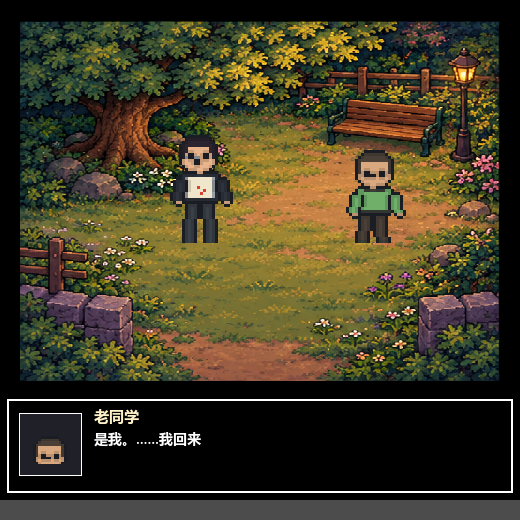
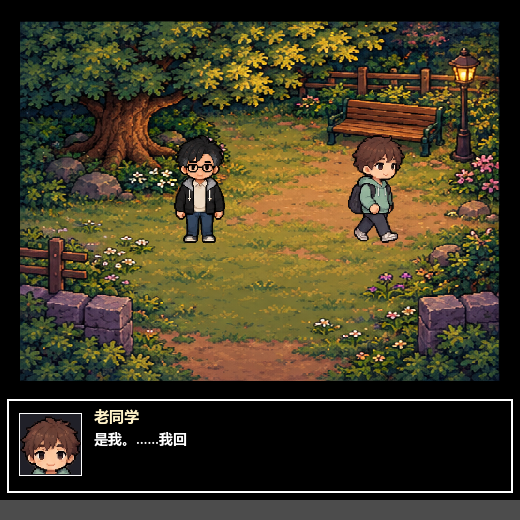
fix: render cutscene characters with the latest pixel_cast atlas
- CutsceneStage uses PixelCast.draw_actor/portrait (assets/portraits_v2, 4 frames per character) instead of the legacy assets/chars frame path
- beat action mapping: walk -> walk cycle, wave/raise -> raised-hand speaking frame, idle/sit -> idle
- animation_link_smoke now validates cast.json/regions/rooms against every cutscene cast
- docs and preview updated for the latest SL character technology

diff --git a/docs/story-cutscenes.md b/docs/story-cutscenes.md
@@ -15,29 +15,32 @@
 给事件加一层 **Undertale 式过场**：不再是「文字卡 + 按钮 + 三镜头小剧场」，而是
 
 - 房间图集背景（`PixelCast.room`，160×120 逻辑画布）；
-- `assets/chars` 的 24×36 逐帧立绘：`idle / walk / wave / raise / sit`，`idle` 支持 **10 种表情**（normal / happy / sad / angry / surprise / scared / determined / shy / hurt / blink）；
+- **SL 库最新 `pixel_cast` 角色图集**：7 个阶段（婴儿/幼年/学龄/少年/成年/中年/老年）+ 6 个 NPC，每个角色 4 帧（静止 / 两帧走 / 说话抬手）；
 - 角色可以按 `from` / `walk_time` 从场外走进来，走到 `x/y` 后自动切回 `idle`；
-- 底部黑框对话框：说话人名字、立绘表情槽、逐字打字 + 合成「滴滴」音；
+- `action` 语义映射到最新 4 帧素材：`walk` → 走路循环，`wave` / `raise` → 说话抬手帧，`idle` / `sit` → 静止；
+- 底部黑框对话框：说话人名字、立绘槽、逐字打字 + 合成「滴滴」音；
 - 对白结束后的**对话框内选项**，红色心形光标上下移动、回车/点击确认；
 - 关系不够的选项会灰色显示并带「需要和…更亲近」提示，无法选中。
 
+> 角色已从旧的 `assets/chars` 分件/逐帧路径切到 GitHub 最新提交的 `pixel_cast` 图集（`assets/portraits_v2` + `data/cast.json`）。旧 `frames.json` 的 10 表情帧保留在仓库里作为素材储备，但当前过场不再使用。
+
 ## 剧情 × 动画：beat 里的动作字段
 
-`data/story_cutscenes.json` 的对白是剧情，`data/frames.json` 的帧表是动画。两者通过 beat 字段接起来：
+`data/story_cutscenes.json` 的对白是剧情，`scripts/pixel_cast.gd` 的 4 帧角色图集是动画。两者通过 beat 字段接起来：
 
 | 字段 | 写在哪 | 作用 |
 | --- | --- | --- |
 | `action` | `beat` 或 `cast[]` | `idle / walk / wave / raise / sit`；写给 `target` 角色，保持到下一次显式切换 |
 | `target` | `beat` | 执行动作的角色，默认等于 `face` |
 | `face` | `beat` | 对话框立绘是谁（`lead` 或 NPC 角色） |
-| `expr` | `beat` | 立绘表情，10 种；`neutral`/`shock` 会自动映射到 `normal`/`surprise` |
-| `from` | `cast[]` | 入场起点 `[x, y]`；有此字段时角色边走边播 `walk` |
+| `expr` | `beat` | 语义提示（normal / happy / sad / angry / surprise / scared / determined / shy / hurt / blink）；最新素材只有静止/抬手两种立绘，非 normal 会优先用抬手帧 |
+| `from` | `cast[]` | 入场起点 `[x, y]`；有此字段时角色边走边播走路帧 |
 | `walk_time` | `cast[]` | 入场时长，默认 1.0 秒 |
 | `cast[].action` / `cast[].face` | `cast[]` | 该角色的默认动作与表情 |
 
-渲染时按 `frames.json` 的 `fps` 播放对应动作帧；帧表是稀疏的（例如 `idle_2` 只有 blink），取不到精确帧会自动回退到同表情第 0 帧或 normal 帧，不会出现空图。
+渲染时由 `PixelCast.frame_index()` 在 4 帧里换帧：走路 `0→1→0→2`，说话抬手第 3 帧，静止第 0 帧。最新素材没有 `wave`/`raise`/`sit` 专用帧，所以 `wave`/`raise` 复用抬手帧，`sit` 退回静止；这些字段保留语义，等后续补专用素材时不需要改剧情。
 
-例子：V03 里老同学从画面右侧走进来，说完“是我。……我回来了”时挥手，下一句再收回 idle。
+例子：V03 里老同学从画面右侧走进来，说完“是我。……我回来了”时挥手（抬手帧），下一句再收回 idle。
 
 ```json
 {"role": "friend", "x": 118, "y": 74, "from": [152, 74], "walk_time": 1.1, "action": "idle"}
@@ -154,17 +157,18 @@
 - `bg`：`home / classroom / hospital / office / park / grave / bedroom`。
 - `cast[].role`：`lead` 或 `boss / friend / mate / parent / partner / teacher`；`x/y` 是 160×120 逻辑坐标里的脚底位置。
 - `cast[]` 可选 `from: [x, y]` 与 `walk_time`，角色会从场外走进 `x/y`；可选默认 `action` / `face`。
-- `beats[].face`：对话框立绘是谁；`lead` 按年龄取阶段，`expr` 支持 10 种表情；NPC 目前只有 `normal`。
-- `beats[].action` + `target`：让某个角色做 `idle / walk / wave / raise / sit`，动作保持到下一次显式切换。
+- `beats[].face`：对话框立绘是谁；`lead` 按年龄取阶段，`expr` 是语义提示（最新素材只有静止/抬手两种立绘）。
+- `beats[].action` + `target`：让某个角色做 `idle / walk / wave / raise / sit`，动作保持到下一次显式切换；具体映射见上表。
 - **选项不写在这里**：选项沿用事件自己的 `choices`，`main.gd` 会按 `showIf` 过滤、按 `requireRelations/requireTags` 标灰锁定，选择后仍走 `gc.choose` 结算。
 
 ## 素材与角色拼装
 
-- 逐帧数据来自 [`data/frames.json`](../data/frames.json)：每个角色 5 种动作，`idle` 支持 10 表情，其余动作只有 `normal`。
-- 帧图是 `assets/chars/{lead|npc}_{角色}_{动作}_{帧}_{表情}.png`，24×36 同画布；`fps` 也写在 `frames.json`。
-- 帧表是稀疏的（如 `idle_2` 只有 blink），`SpriteKit.action_frame()` 会逐级回退到同表情第 0 帧或 normal 帧。
-- 对话框立绘直接裁 `idle` 帧的头部（上 15px），因此 10 种表情在立绘和场上都一致。
-- 旧的分件合成 `SpriteKit.compose()` 仍保留，作为没有帧数据时的兜底。
+- 角色使用 GitHub 最新提交的 [`pixel_cast.gd`](../scripts/pixel_cast.gd) + [`assets/portraits_v2`](../assets/portraits_v2) 图集；`data/cast.json` 记录 7 个阶段 + 6 个 NPC，每人 4 帧。
+- `assets/cast/*.png` 是同一批帧的独立导出，方便直接查看；`regions.json` 记录每帧在 atlas 里的区域。
+- 姿态只有 4 帧：静止、两种迈步、说话抬手。`pixel_cast.gd` 用 `0→1→0→2` 播走路、`0↔3` 播说话；没有 `wave/raise/sit` 专用帧。
+- 对话框立绘直接裁角色帧上半部约 46%，与场上角色同一套图，不会出现两套画风。
+- 旧的 [`data/frames.json`](../data/frames.json) + `assets/chars` 10 表情素材保留在仓库里，作为后续补表情/专用动作的储备；当前过场不走这条路径。
+- 旧的 `SpriteKit.compose()` 分件合成继续作为兜底保留。
 - 音频是运行时合成的方波/正弦短音（`audio_fx.gd`），无外部音频文件依赖。
 
 ## 怎么新增一个过场

diff --git a/docs/animation-production-guide.md b/docs/animation-production-guide.md
@@ -80,7 +80,7 @@ scale = 显示高度 / 帧图高度
 
 两条路径共用新的角色与背景资源，但没有合并成单一播放器。前者已经接入主角入场步态与说话姿态，逻辑背景空间为 160×120；后者以 320×192 组织房间坐标，再缩放到 UI 动画区。
 
-选项前对白过场现在已接入 [`data/frames.json`](../data/frames.json) 的逐帧动作：主角与 NPC 按 `idle / walk / wave / raise / sit` 播放，`idle` 支持 10 种表情；剧情的 beat 字段 `action` / `target` / `face` 直接驱动换帧，`cast[].from` / `walk_time` 驱动入场走位。婴儿阶段仍走 `PixelCast` 图集，房间背景也继续用 `PixelCast.room()`；选项后的房间演出仍使用旧的时钟换帧。两套数据并不互斥，而是按角色阶段与播放路径分工。
+选项前对白过场使用 GitHub 最新提交的 [`pixel_cast.gd`](../scripts/pixel_cast.gd) 图集（7 个阶段 + 6 个 NPC，每人 4 帧）：剧情的 beat 字段 `action` / `target` / `face` 直接驱动走路、说话抬手与静止；`wave` / `raise` 复用抬手帧，`sit` 退回静止；`cast[].from` / `walk_time` 驱动入场走位。旧的 [`data/frames.json`](../data/frames.json) 10 表情素材保留为后续专用动作的储备，当前过场不再走这条路径。
 
 当前角色动画由时钟计算帧号，使用 CanvasItem 绘制，不依赖 `AnimatedSprite2D` 或 `AnimationPlayer` 才能播放：
 
@@ -91,12 +91,12 @@ scale = 显示高度 / 帧图高度
 静止：frame = 0
 ```
 
-`frames.json` 路径（对白过场的主角 / NPC）：
+对白过场的 4 帧映射（`pixel_cast.gd`）：
 
 ```text
-动作：idle(3 帧, 10 表情) / walk(4) / wave(4) / raise(3) / sit(3)
-fps： idle 2 / walk 9 / wave 8 / raise 9 / sit 8
-frame = int(anim_clock × fps) % n
+走路：sequence = [0, 1, 0, 2]
+说话 / wave / raise：第 3 帧
+静止 / sit：第 0 帧
 ```
 
 四帧复用能快速覆盖基础动作，但不足以表达全部剧情。当前休息使用角色图旋转后放到床上，没有专门的躺下过渡；也尚无完整四方向行走、拥抱或坐下帧。不要把这些基础演出描述为全部剧情的定制动画。

diff --git a/docs/pixel-cast-v2.md b/docs/pixel-cast-v2.md
@@ -21,7 +21,7 @@
 - 每个角色四个基础姿态，共 52 帧：静止、两种迈步/婴儿爬行、说话抬手。运行时以 `0→1→0→2` 播步态，以 `0↔3` 表现说话。属于首版基础姿态，尚无完整四方向、坐下、拥抱、哭泣等专用动作。
 - 七处环境：家中、教室、办公室、公园、医院、纪念园，以及参考照片宿舍特征的卧室。纪念园可在预览中查看，未强行改写原有事件去使用它。
 - `pixel_cast.gd` 加载图集、裁切区域、头像，脚底位置为绘制锚点，最近邻过滤。`regions.json` 记录 alpha>=128 的角色可见边界，原图不被裁剪或改写。生成图存在少量低透明度边缘，当前以原始 alpha 显示。
-- `cutscene_stage.gd` 接入新背景、说话头像、入场步态；保留原来的逐字、锁定选项和结算接口。背景逻辑空间为 160×120，已有角色脚底坐标继续生效。
+- `cutscene_stage.gd` 接入新背景、说话头像、入场步态；剧情 beat 的 `action` / `target` 也映射到这套 4 帧素材（walk / 说话抬手 / 静止），保留原来的逐字、锁定选项和结算接口。背景逻辑空间为 160×120，已有角色脚底坐标继续生效。
 - `story_room.gd` 接入新角色与背景，保留其余专用房间、道具动作、三段推进与世界状态结算。卧室休息会将角色横向放置在床上，尚无专用躺下过渡帧。
 - 旧分件素材与 `SpriteKit.compose()` 保留，新的角色图集作为新版显示路径。
 
